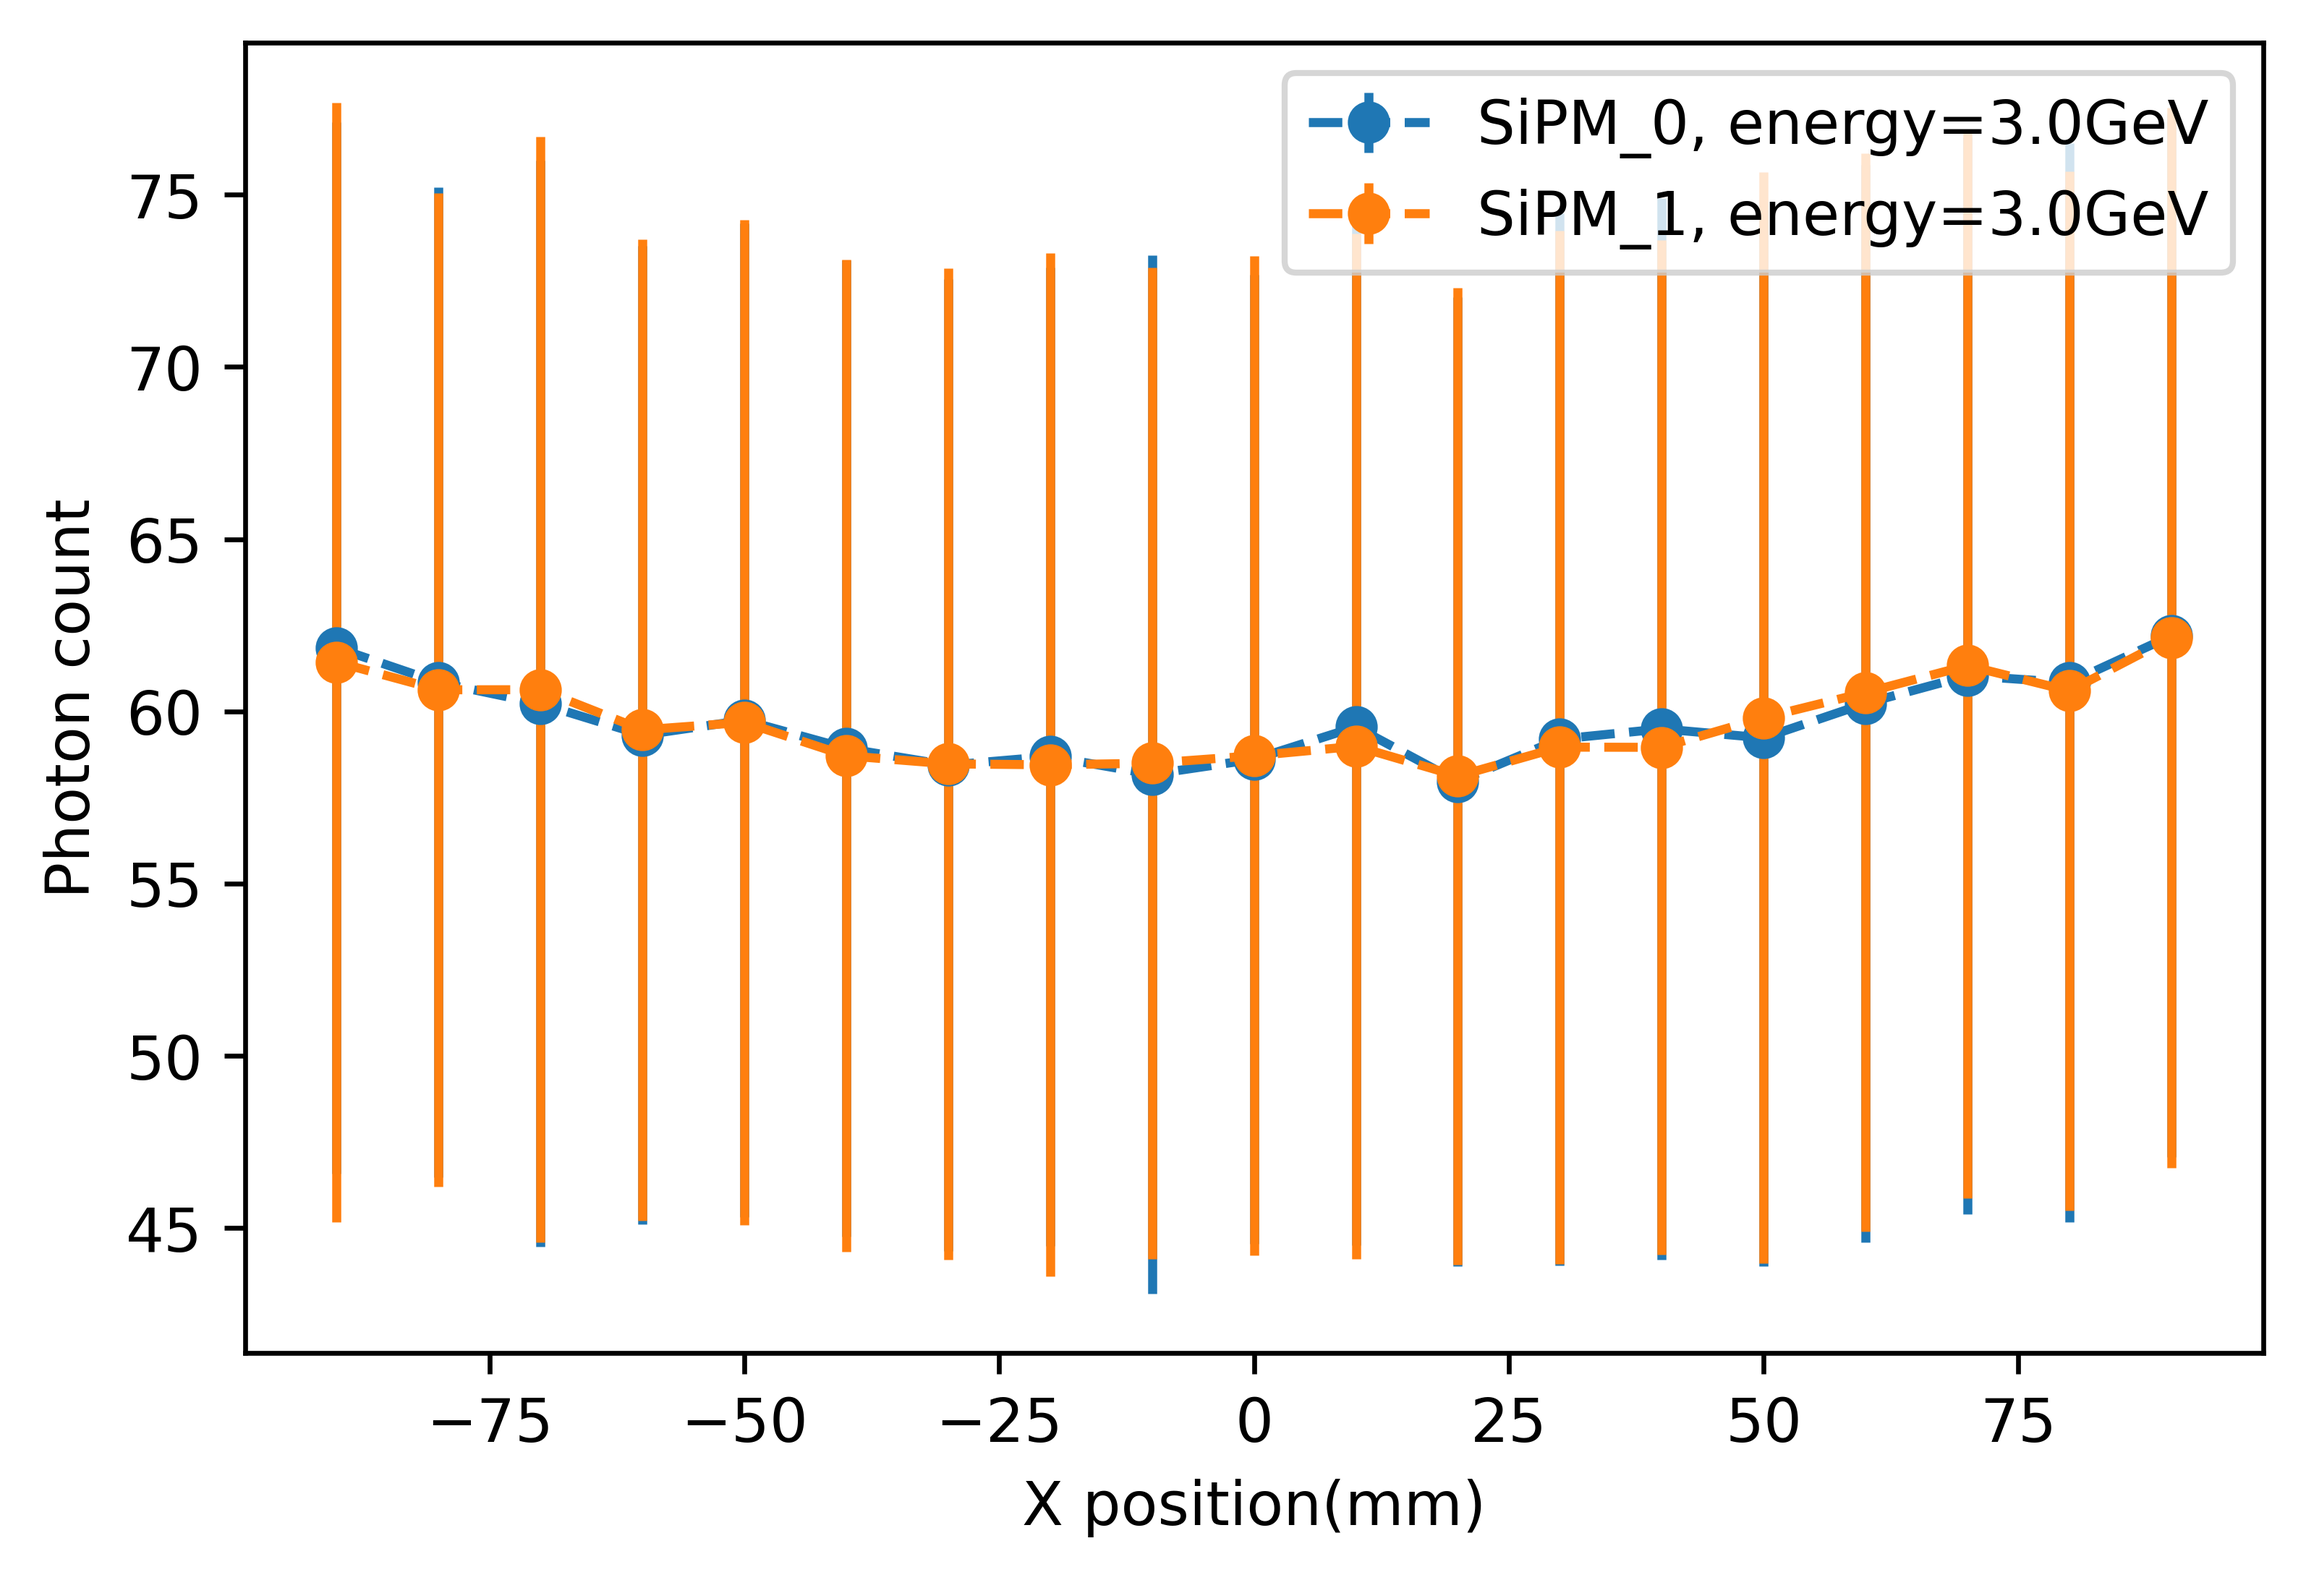
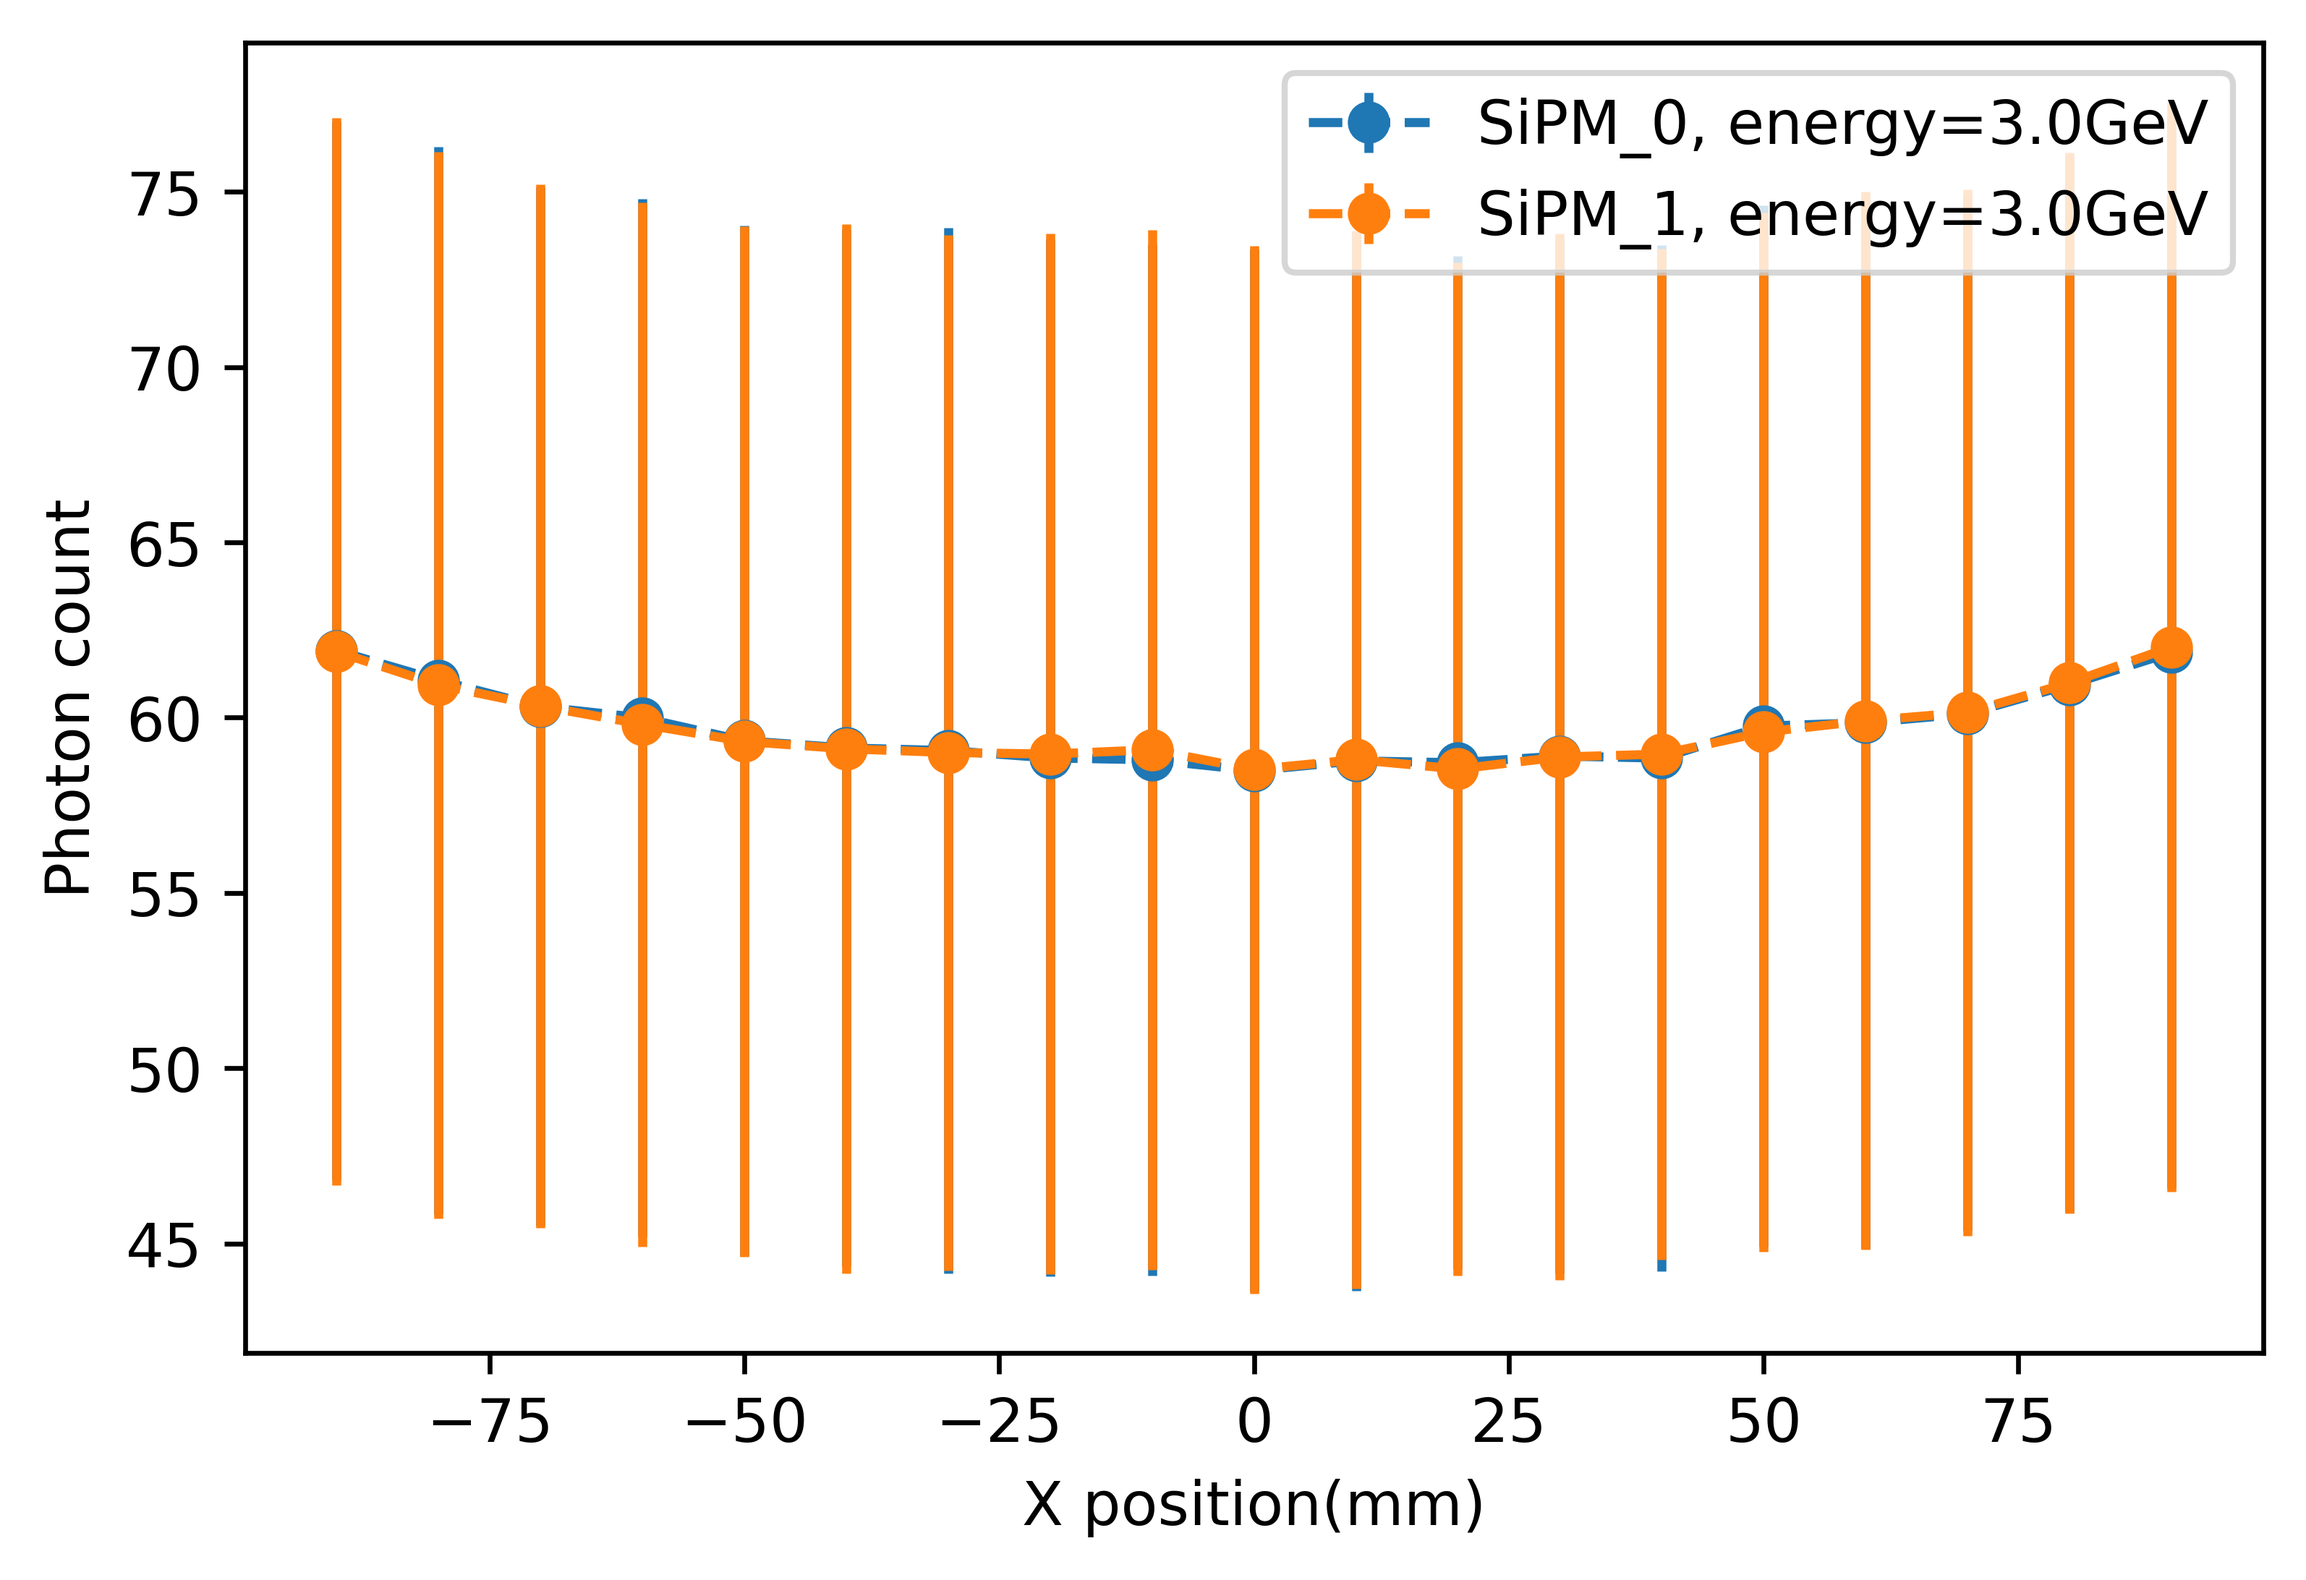
added muon_x.csv

diff --git a/src/MVRunAction.cc b/src/MVRunAction.cc
@@ -52,8 +52,14 @@ void MVRunAction::EndOfRunAction(const G4Run* aRun)
 
             long long sum = 0;
             long long squaredSum = 0;
-            for (auto itr = singleSiPMPhotonCount.begin(); itr != singleSiPMPhotonCount.end(); itr++)
+            for (auto itr = singleSiPMPhotonCount.begin(); itr != singleSiPMPhotonCount.end(); ++itr)
             {
+                if (*itr > photonCountCut)
+                {
+                    G4cerr << "Event is cut because this event has " << *itr << " photons in SiPM_" << SiPMNb;
+                    eventCount -= 1;
+                    continue;
+                }
                 sum += ((long long) *itr);
                 squaredSum += ((long long) *itr) * ((long long) *itr);
             }
